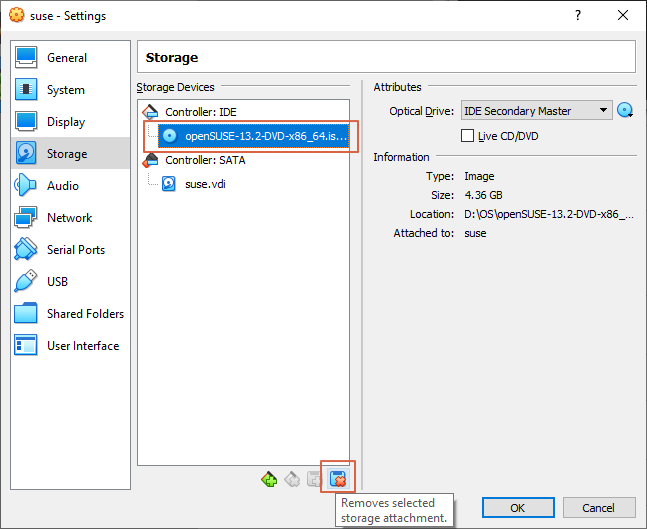
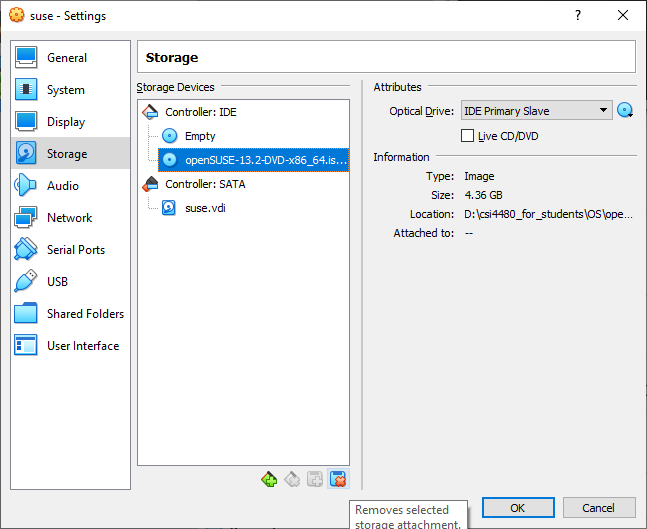
FEATURE: try to make the shared-folder be seen by openSUSE-13.2 by installing the Guest Additions, but it results in another bug anyway

diff --git a/lab#00/lab#00 Get the environment prepared.md b/lab#00/lab#00 Get the environment prepared.md
@@ -213,21 +213,23 @@ Download the Linux image file with the link above.
 
 It is emulating CD/DVD player to install an OS, in essence.
 
-8. Select the VM and click the orange button "Setting".
+8. Select the VM and click the orange button "Settings". 
 
 ![create_new_vm_opensuse_setting](./screenshot/create_new_vm_opensuse_setting.png)
 
 
 
-9. Select the Empty disc under the "Storage" on the left panel, click the button on the right.  
+9. Go to the window "storage", click the first button named "Add optical disc" under the pane "Storage Devices".  
 
-   ![create_new_vm_suse_6_settings_1_storage](./screenshot/create_new_vm_suse_6_settings_1_storage.png)
+   ![create_new_vm_suse_settings_1_storage_0](./screenshot./create_new_vm_suse_settings_1_storage_0.png)
+
+   ![create_new_vm_suse_settings_1_storage_1](./screenshot./create_new_vm_suse_settings_1_storage_1.png)
 
    
 
-10. Select "choose disk file" on the drag-down menu, choose the image file "openSUSE-13.2-DVD-x_64.iso" in your machine.
+10. Click button "Add" and choose the image file "openSUSE-13.2-DVD-x_64.iso" in your machine.
 
-![create_new_vm_suse_settings_1_storage_2](./screenshot/create_new_vm_suse_6_settings_1_storage_2.png)
+![create_new_vm_suse_settings_1_storage_2](./screenshot./create_new_vm_suse_settings_1_storage_2.png)
 
 
 
@@ -273,7 +275,7 @@ If a warning popped up (shown below), confirm it and continue. If it is not boot
 
 15. Now you should see it booting, select installation.
 
-![create_new_vm_opensuse_13_2_installation_1_booting](./screenshot/create_new_vm_opensuse_13_2_installation_1_booting.png)
+![create_new_vm_opensuse_13_2_installation_1_booting](./screenshot./create_new_vm_opensuse_13_2_installation_1_booting.png)
 
 Basically leave everything default.
 
@@ -283,7 +285,7 @@ Basically leave everything default.
 
 16. Suggested Partitioning. Leave it default.
 
-![create_new_vm_opensuse_13_2_installation_2_suggested_partition](./screenshot/create_new_vm_opensuse_13_2_installation_2_suggested_partition.png)
+![create_new_vm_opensuse_13_2_installation_2_suggested_partition](./screenshot./create_new_vm_opensuse_13_2_installation_2_suggested_partition.png)
 
 
 
@@ -291,7 +293,7 @@ Basically leave everything default.
 
 17. clock and Time Zone. 
 
-![create_new_vm_opensuse_13_2_installation_3_time_zone](./screenshot/create_new_vm_opensuse_13_2_installation_3_time_zone.png)
+![create_new_vm_opensuse_13_2_installation_3_time_zone](./screenshot./create_new_vm_opensuse_13_2_installation_3_time_zone.png)
 
 
 
@@ -299,13 +301,13 @@ Basically leave everything default.
 
 18. Desktop Selection. Leave it to KDE by default.
 
-![create_new_vm_opensuse_13_2_installation_4_desktop_selection](./screenshot/create_new_vm_opensuse_13_2_installation_4_desktop_selection.png)
+![create_new_vm_opensuse_13_2_installation_4_desktop_selection](./screenshot./create_new_vm_opensuse_13_2_installation_4_desktop_selection.png)
 
 
 
 19. Make sure you check the box "Use this password for system administrator". It is checked by default.
 
-![create_new_vm_opensuse_13_2_installation_5_create_user](./screenshot/create_new_vm_opensuse_13_2_installation_5_create_user.png)
+![create_new_vm_opensuse_13_2_installation_5_create_user](./screenshot./create_new_vm_opensuse_13_2_installation_5_create_user.png)
 
 
 
@@ -313,7 +315,7 @@ Basically leave everything default.
 
 20. Overviews of your settings. Continue to install.
 
-![create_new_vm_opensuse_13_2_installation_6_installation_settings](./screenshot/create_new_vm_opensuse_13_2_installation_6_installation_settings.png)
+![create_new_vm_opensuse_13_2_installation_6_installation_settings](./screenshot./create_new_vm_opensuse_13_2_installation_6_installation_settings.png)
 
 
 
@@ -323,17 +325,49 @@ Basically leave everything default.
 
     The VM will restart automatically, just close the window and choose "Power off".
 
-    ![create_new_vm_suse_7_poweroff_and_remove_disc](./screenshot/create_new_vm_suse_7_poweroff_and_remove_disc.png)
+    ![create_new_vm_suse_7_poweroff_and_remove_disc](./screenshot./create_new_vm_suse_7_poweroff_and_remove_disc.png)
 
     Back to VM settings, go to "storage", select the openSUSE disc and click the button on the bottom to remove it.
 
-    ![create_new_vm_suse_7_poweroff_and_remove_disc_2](./screenshot/create_new_vm_suse_7_poweroff_and_remove_disc_2.png)
+    ![create_new_vm_suse_7_poweroff_and_remove_disc_2](./screenshot./create_new_vm_suse_7_poweroff_and_remove_disc_2.png)
 
     Now you are free to restart the VM!
     
-    ![create_new_vm_suse_8_restart](./screenshot/create_new_vm_suse_8_restart.png)
+    ![create_new_vm_suse_8_restart](./screenshot./create_new_vm_suse_8_restart.png)
 
+#### Install the Guest Additions DVD image (optional)
 
+22. To make the shared-folder and some other features work, we need to install the "Guest Additions DVD image".
+
+    Running the VM, click the option "Devices" on the top menu of the window, select "Insert guest Additions CD image".
+    
+    ![create_new_vm_suse_10_install_guest_image](./screenshot./create_new_vm_suse_10_install_guest_image.png)
+    
+    
+    
+    Particularly, if the disc doesn't automatically run, manually execute the script there. The script is called "VBoxLinuxAdditions" on Linux. 
+    
+    * Click the button on the bottom menu(show below) and "Open with File Manager".
+    
+      ![create_new_vm_suse_10_install_guest_image_1](./screenshot/create_new_vm_suse_10_install_guest_image.png)
+    
+      
+    
+    * "Right Click" with your mouse. Select "Open Terminal Here" in the sub-menu "Actions".
+    
+      ![create_new_vm_suse_10_install_guest_image_2](./screenshot/create_new_vm_suse_10_install_guest_image_2.png)
+    
+    
+    
+    * Run command `sudo bash VBoxLinuxAdditions.run`. Restart the VM to have it in effect.
+    
+      ![create_new_vm_suse_10_install_guest_image_3](./screenshot/create_new_vm_suse_10_install_guest_image_3.png)
+    
+      
+    
+    * If anything wrong happens due to the "Guest Additions", navigate to the directory and uninstall it by run command `sudo bash VBoxLinuxAdditions.run uninstall` on terminal.
+    
+      ![create_new_vm_suse_10_uninstall_guest_image](./screenshot/create_new_vm_suse_10_uninstall_guest_image.png)
 
 #### Exclusive bug of openSUSE 13.2
 
@@ -346,7 +380,7 @@ It could be resolved by manually restarting the Network Manager service.
 1. Click the openSUSE icon on the left-bottom corner.
 2. Select App "Terminal" in the "Favorites" column.
 
-![create_new_vm_suse_9_restart_network_manager](./screenshot/create_new_vm_suse_9_restart_network_manager.png)
+![create_new_vm_suse_9_restart_network_manager](./screenshot./create_new_vm_suse_9_restart_network_manager.png)
 
 3. Run command `sudo systemctl restart NetworkManager`. 
 
@@ -356,7 +390,7 @@ It could be resolved by manually restarting the Network Manager service.
 
    
 
-![create_new_vm_suse_9_restart_network_manager_2](./screenshot/create_new_vm_suse_9_restart_network_manager_2.png)
+![create_new_vm_suse_9_restart_network_manager_2](./screenshot./create_new_vm_suse_9_restart_network_manager_2.png)
 
 4. Good to go!
 
